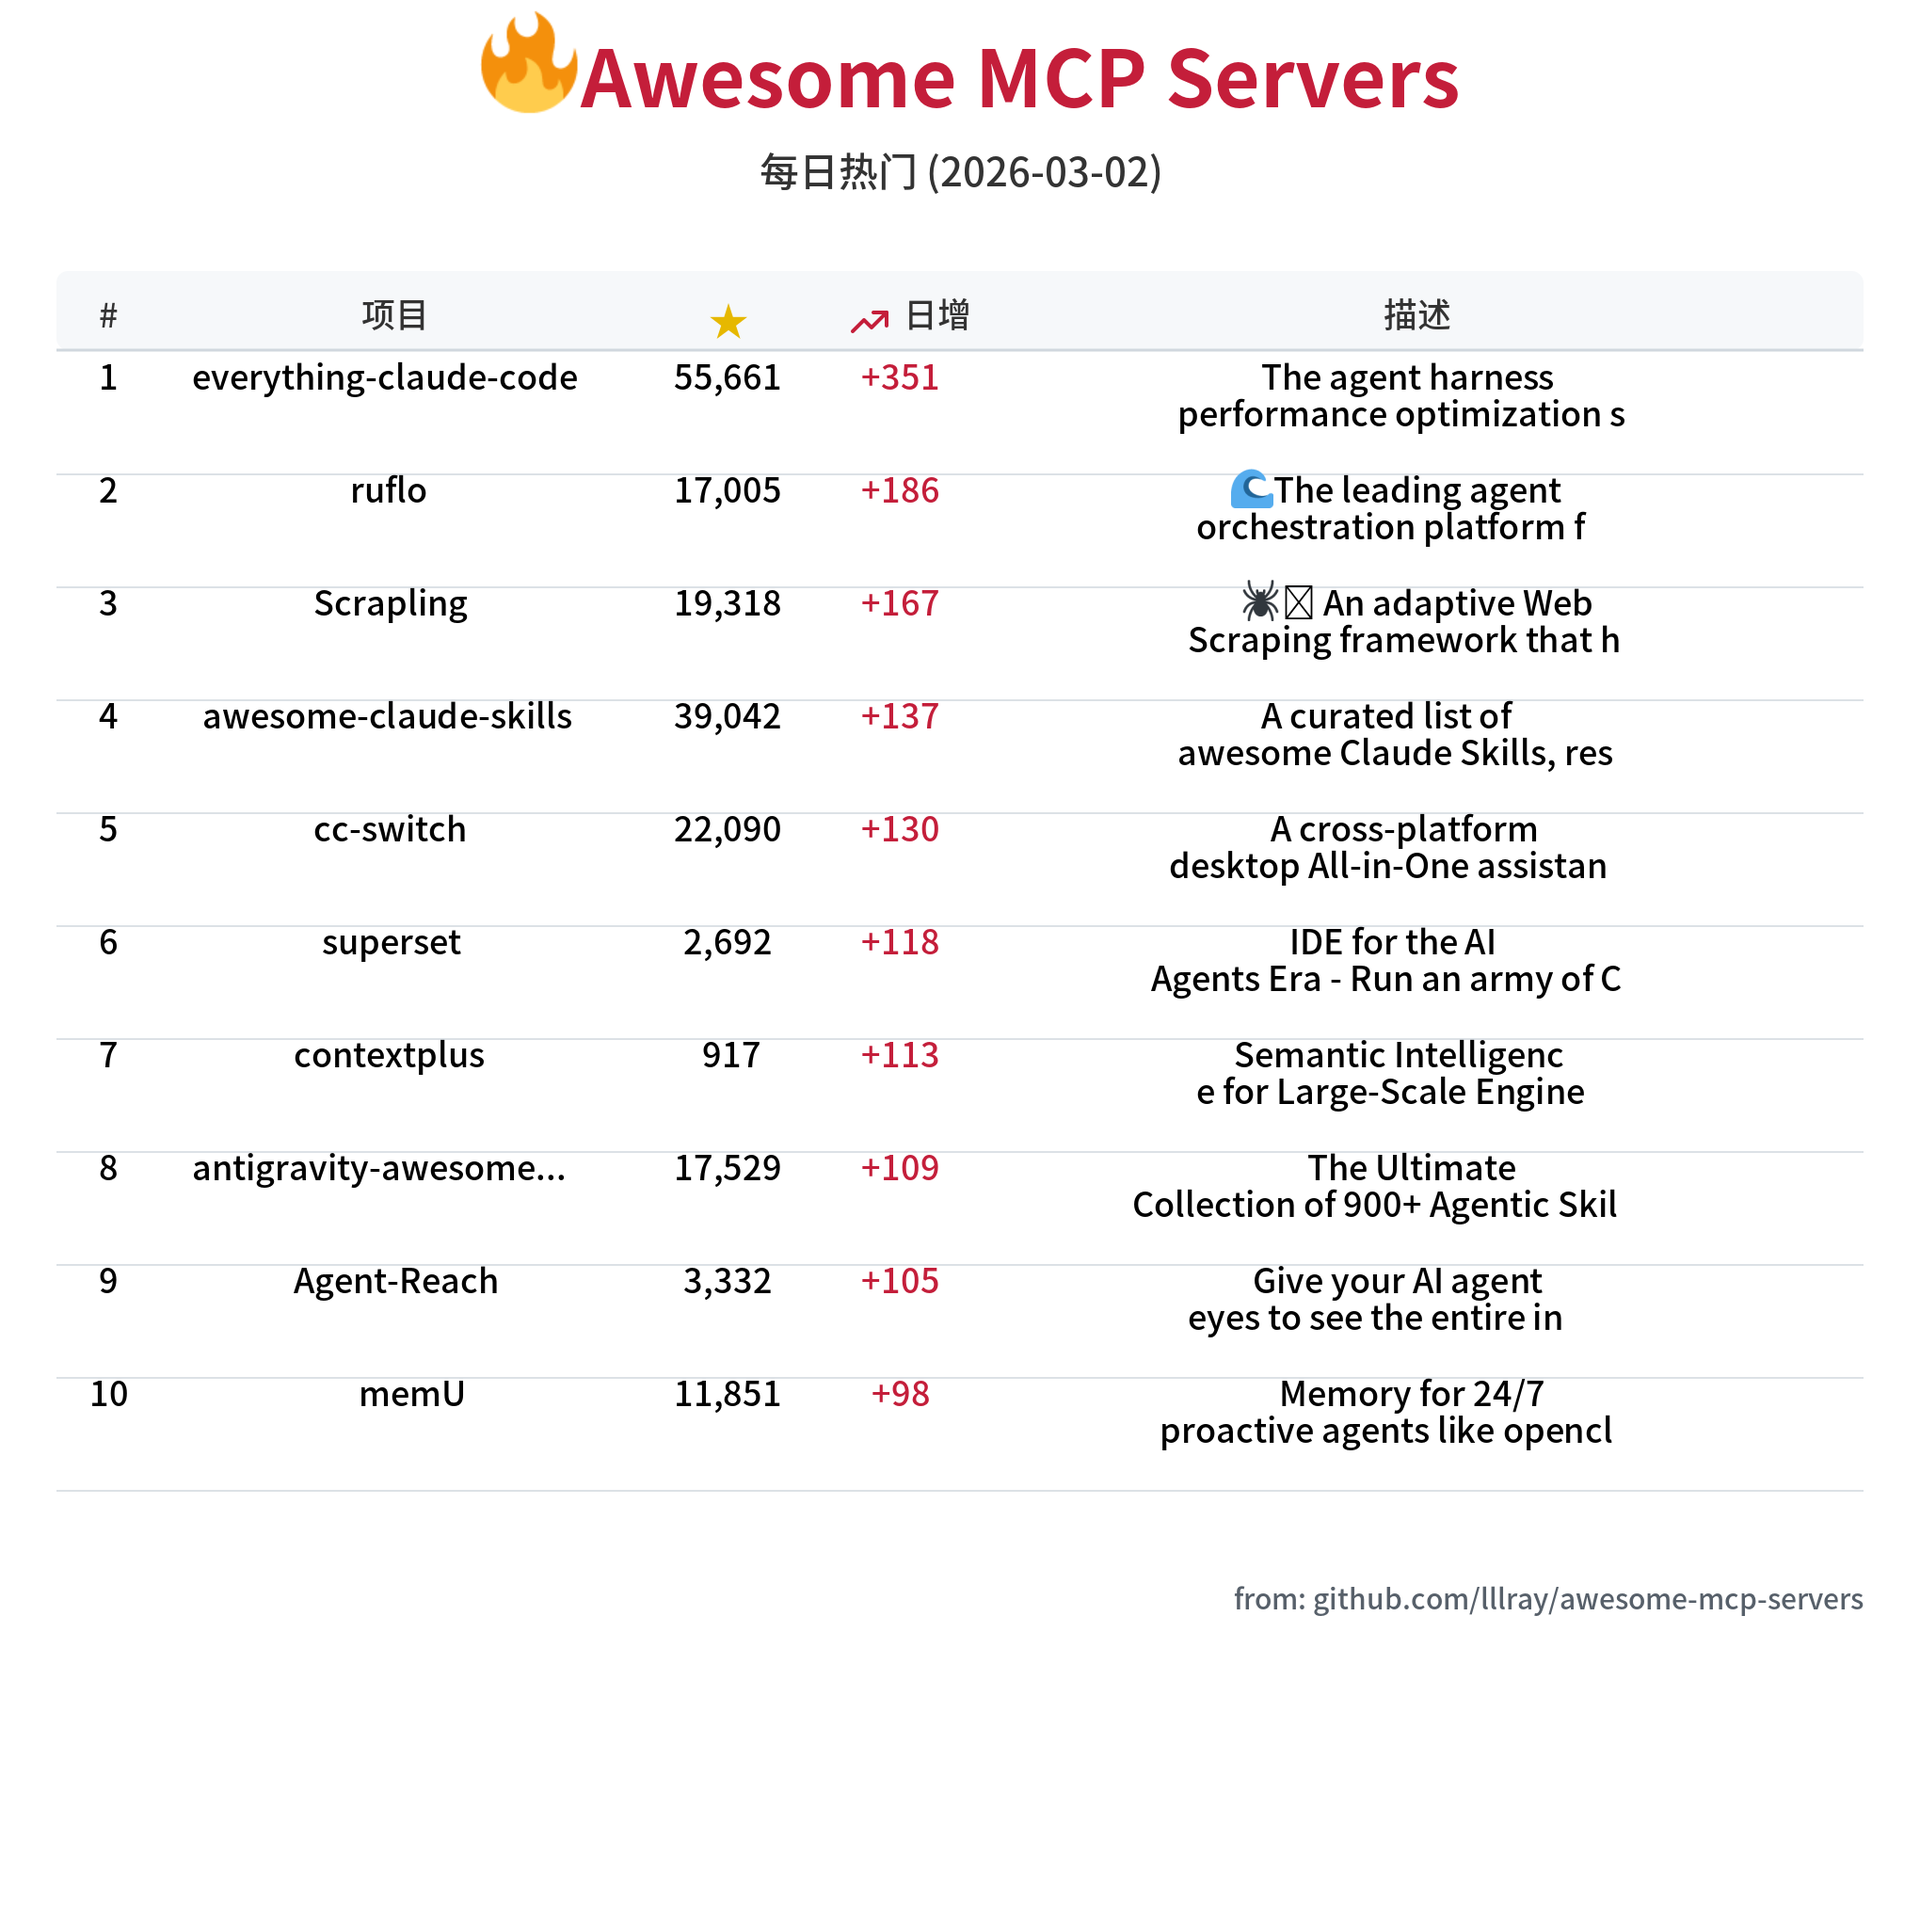
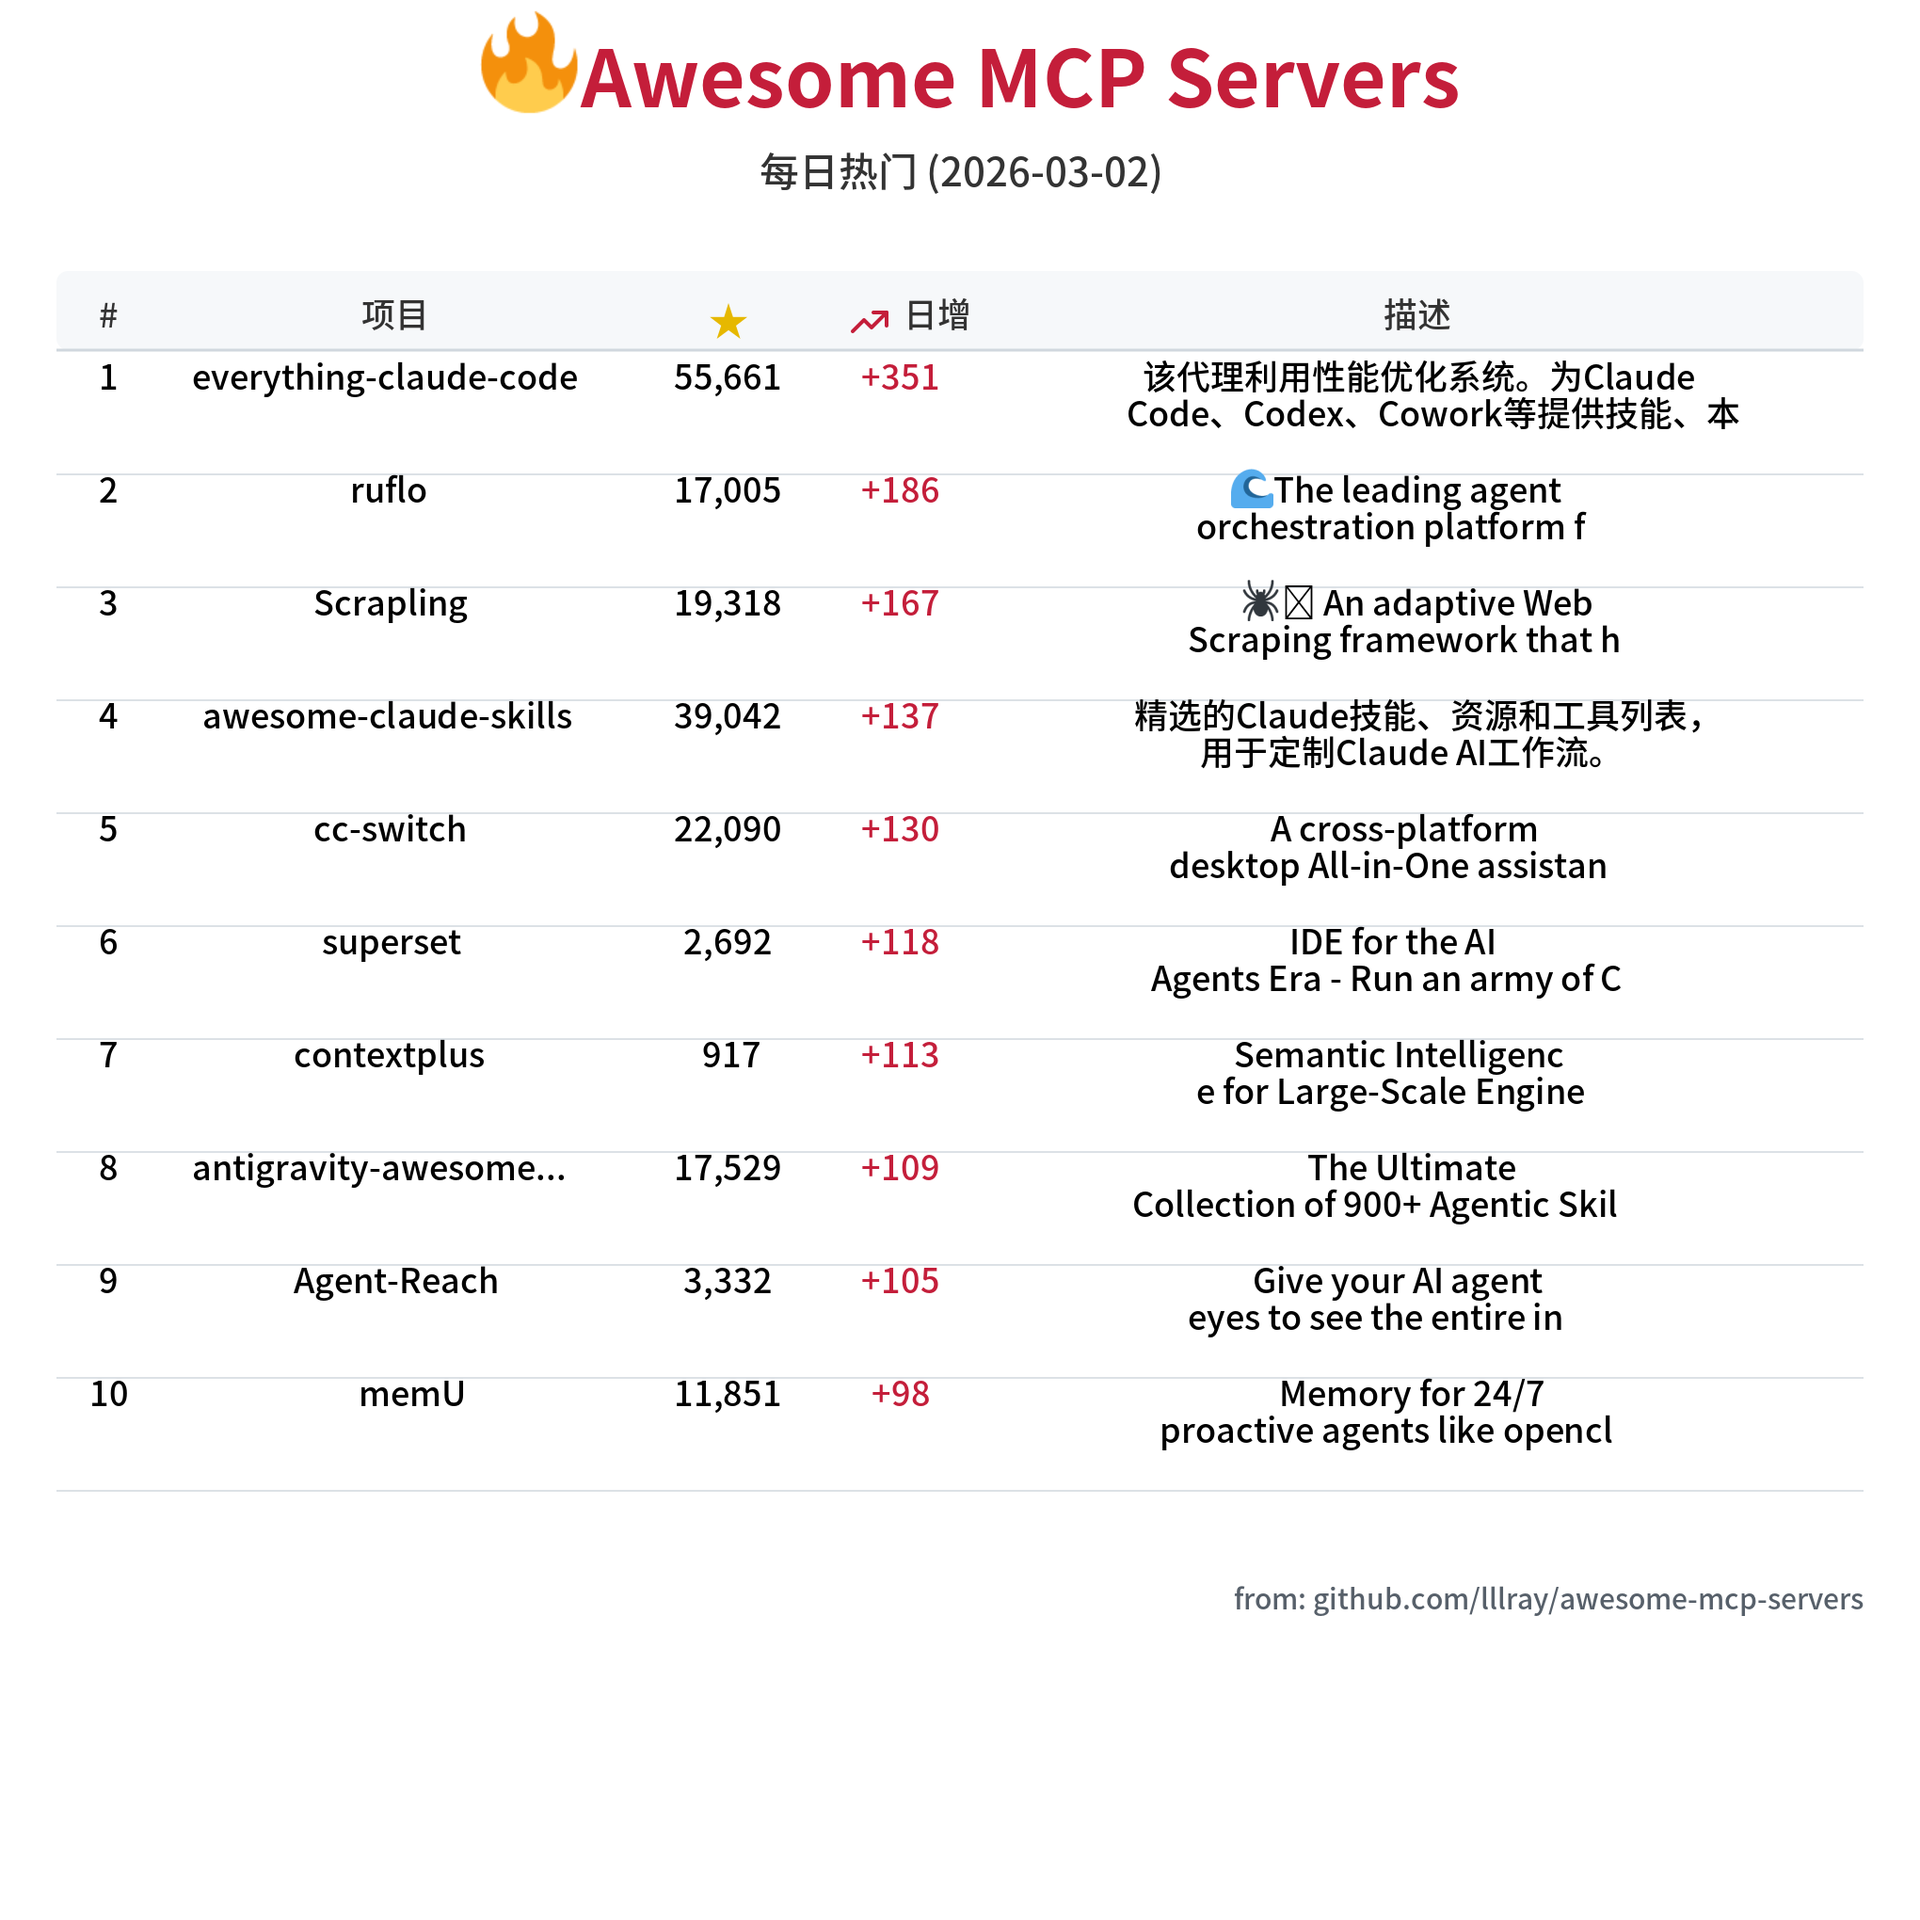
docs: 重新翻译每日热门描述 - 2026-03-02 20:57:07

Changed region(s): [[0.5868, 0.1853, 0.8956, 0.2471], [0.5868, 0.3706, 0.8956, 0.4015]]

diff --git a/README_ZH.md b/README_ZH.md
@@ -37,10 +37,10 @@
 
 | # | 项目 | ⭐ | 📈 日增 | 描述 |
 |:-:|------|---:|-------:|------|
-| 1 | [affaan-m/everything-claude-code](https://github.com/affaan-m/everything-claude-code) | 55,661 | +351 | The agent harness performance optimization system.... |
+| 1 | [affaan-m/everything-claude-code](https://github.com/affaan-m/everything-claude-code) | 55,661 | +351 | 该代理利用性能优化系统。为Claude Code、Codex、Cowork等提供技能、本能、记忆、安... |
 | 2 | [ruvnet/ruflo](https://github.com/ruvnet/ruflo) | 17,005 | +186 | 🌊 The leading agent orchestration platform for Cla... |
 | 3 | [D4Vinci/Scrapling](https://github.com/D4Vinci/Scrapling) | 19,318 | +167 | 🕷 An adaptive Web Scraping framework that handles... |
-| 4 | [ComposioHQ/awesome-claude-skills](https://github.com/ComposioHQ/awesome-claude-skills) | 39,042 | +137 | A curated list of awesome Claude Skills, resources... |
+| 4 | [ComposioHQ/awesome-claude-skills](https://github.com/ComposioHQ/awesome-claude-skills) | 39,042 | +137 | 精选的Claude技能、资源和工具列表，用于定制Claude AI工作流。 |
 | 5 | [farion1231/cc-switch](https://github.com/farion1231/cc-switch) | 22,090 | +130 | A cross-platform desktop All-in-One assistant tool... |
 | 6 | [superset-sh/superset](https://github.com/superset-sh/superset) | 2,692 | +118 | IDE for the AI Agents Era - Run an army of Claude ... |
 | 7 | [ForLoopCodes/contextplus](https://github.com/ForLoopCodes/contextplus) | 917 | +113 | Semantic Intelligence for Large-Scale Engineering.... |
@@ -54,8 +54,8 @@
 | 15 | [google-gemini/gemini-cli](https://github.com/google-gemini/gemini-cli) | 96,083 | +31 | An open-source AI agent that brings the power of G... |
 | 16 | [anthropics/claude-plugins-official](https://github.com/anthropics/claude-plugins-official) | 8,665 | +29 | Official, Anthropic-managed directory of high qual... |
 | 17 | [GuDaStudio/GrokSearch](https://github.com/GuDaStudio/GrokSearch) | 518 | +29 | Integrate Grok's powerful real-time search capabil... |
-| 18 | [sansan0/TrendRadar](https://github.com/sansan0/TrendRadar) | 47,636 | +26 | ⭐AI-driven public opinion & trend monitor with mul... |
-| 19 | [upstash/context7](https://github.com/upstash/context7) | 47,304 | +23 | Context7 MCP Server -- Up-to-date code documentati... |
+| 18 | [sansan0/TrendRadar](https://github.com/sansan0/TrendRadar) | 47,636 | +26 | ⭐AI驱动的舆情与趋势监控，具备多平台聚合、RSS订阅和智能警报功能。🎯 告别信息过载，您的AI舆情... |
+| 19 | [upstash/context7](https://github.com/upstash/context7) | 47,304 | +23 | Context7 MCP服务器——为LLMs和AI代码编辑器提供最新的代码文档 |
 | 20 | [modelcontextprotocol/servers](https://github.com/modelcontextprotocol/servers) | 79,767 | +21 | Model Context Protocol Servers |
 
 ---
@@ -603,4 +603,4 @@ git clone https://github.com/lllray/awesome-mcp-servers.git
 
 ---
 
-<p align="center"><sub>✨ 自动整理 · 2026-03-02 20:54:54</sub></p>
+<p align="center"><sub>✨ 自动整理 · 2026-03-02 20:57:07</sub></p>

diff --git a/README.md b/README.md
@@ -54,7 +54,7 @@
 | 15 | [google-gemini/gemini-cli](https://github.com/google-gemini/gemini-cli) | 96,083 | +31 | An open-source AI agent that brings the power of Gemini dire |
 | 16 | [anthropics/claude-plugins-official](https://github.com/anthropics/claude-plugins-official) | 8,665 | +29 | Official, Anthropic-managed directory of high quality Claude |
 | 17 | [GuDaStudio/GrokSearch](https://github.com/GuDaStudio/GrokSearch) | 518 | +29 | Integrate Grok's powerful real-time search capabilities into |
-| 18 | [sansan0/TrendRadar](https://github.com/sansan0/TrendRadar) | 47,636 | +26 | ⭐AI-driven public opinion & trend monitor with multi-platfor |
+| 18 | [sansan0/TrendRadar](https://github.com/sansan0/TrendRadar) | 47,636 | +26 | ⭐AI-driven |
 | 19 | [upstash/context7](https://github.com/upstash/context7) | 47,304 | +23 | Context7 MCP Server -- Up-to-date code documentation for LLM |
 | 20 | [modelcontextprotocol/servers](https://github.com/modelcontextprotocol/servers) | 79,767 | +21 | Model Context Protocol Servers |
 
@@ -595,4 +595,4 @@ Pull requests welcome!
 
 ---
 
-<p align="center"><sub>✨ Auto-curated · 2026-03-02 20:54:54</sub></p>
+<p align="center"><sub>✨ Auto-curated · 2026-03-02 20:57:07</sub></p>
